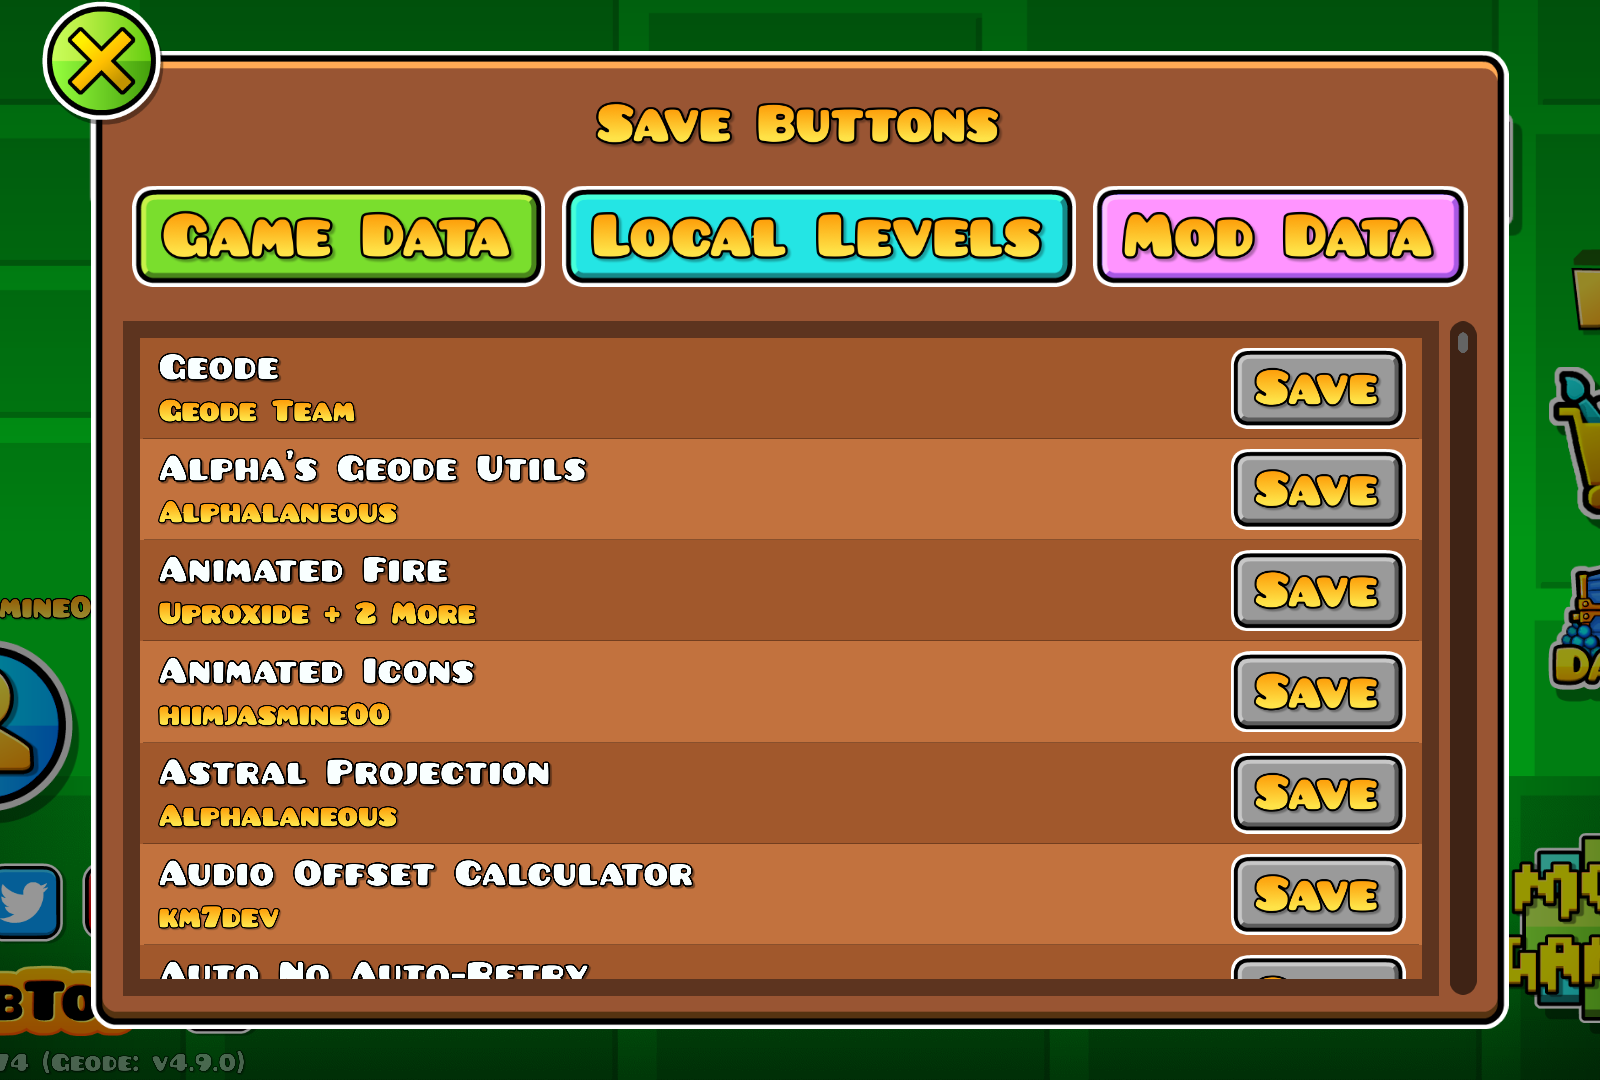
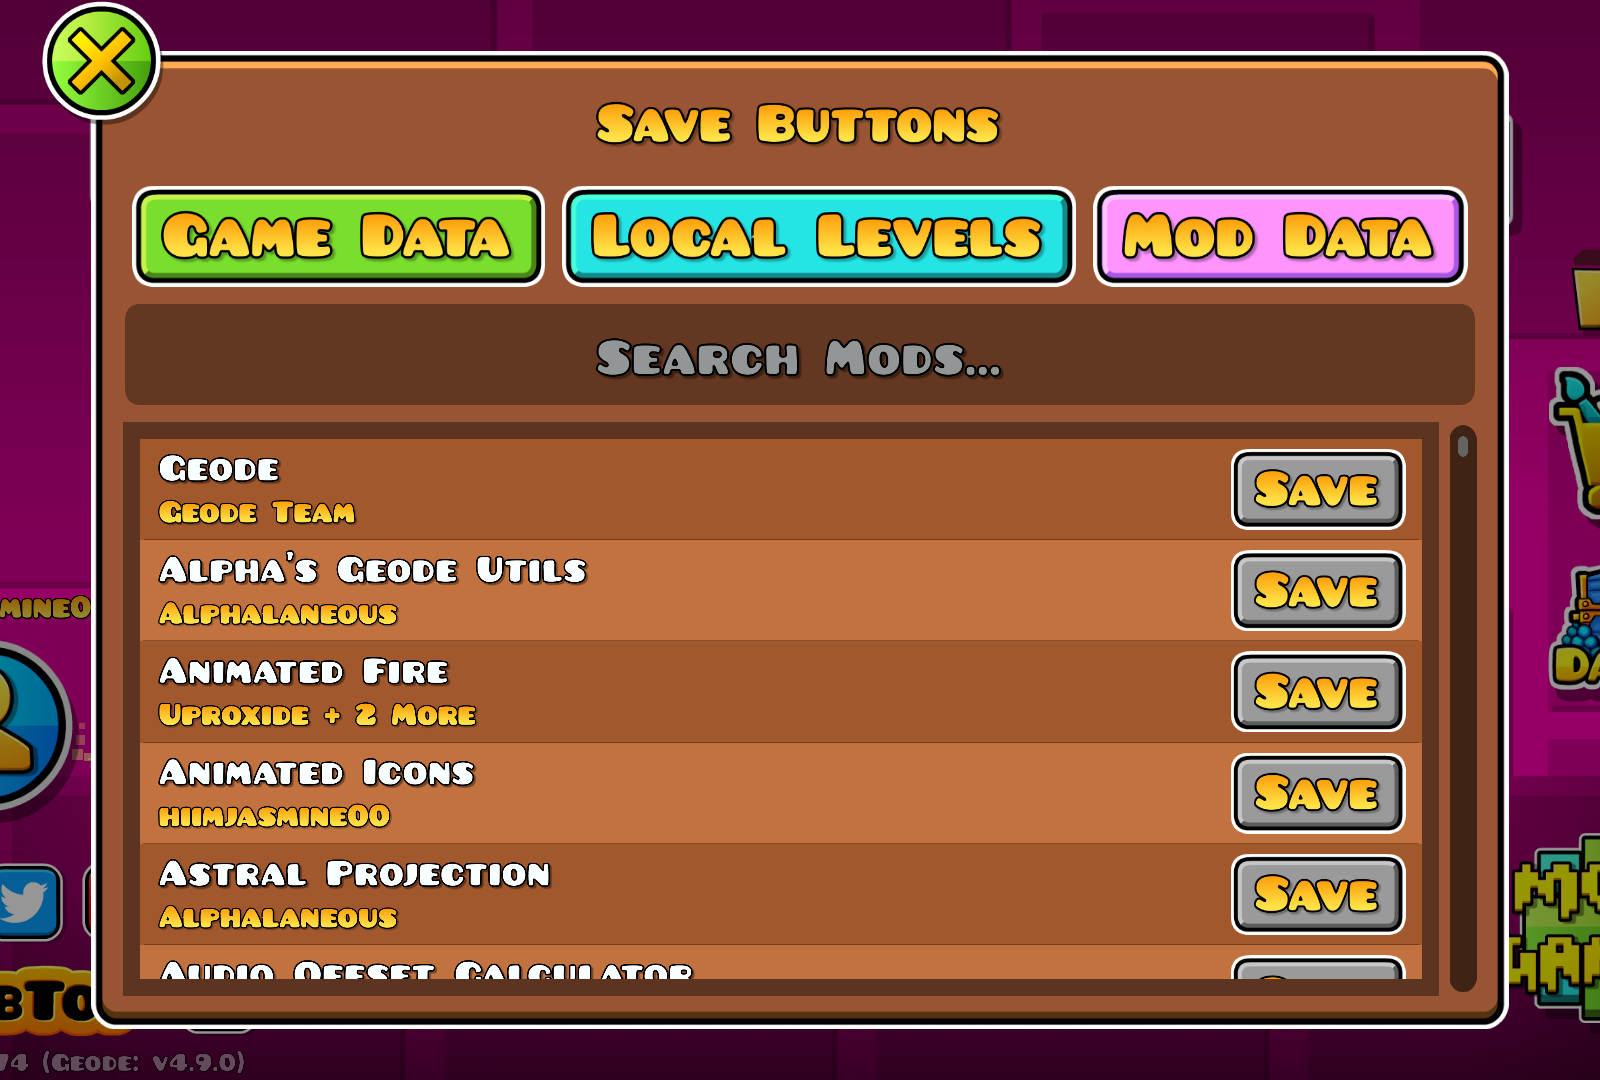
Add searching

diff --git a/src/classes/SBModCell.cpp b/src/classes/SBModCell.cpp
@@ -2,15 +2,71 @@
 #include "../SaveButtons.hpp"
 #include <Geode/binding/ButtonSprite.hpp>
 #include <Geode/binding/FLAlertLayer.hpp>
-#include <Geode/loader/Mod.hpp>
-#include <Geode/loader/ModSettingsManager.hpp>
+#include <Geode/loader/Loader.hpp>
 #include <Geode/ui/Notification.hpp>
+#include <Geode/utils/string.hpp>
 
 using namespace geode::prelude;
 
-SBModCell* SBModCell::create(Mod* mod, int index) {
+CCSize getLabelSize(std::u16string_view text, const char* font, int kerning = 0) {
+    if (text.empty()) return { 0.0f, 0.0f };
+
+    auto fontConfig = FNTConfigLoadFile(font);
+    auto lines = 1;
+    auto charSet = fontConfig->getCharacterSet();
+    auto fontDefDict = fontConfig->m_pFontDefDictionary;
+    auto kerningDict = fontConfig->m_pKerningDictionary;
+    auto maxWidth = 0;
+    auto previous = -1u;
+    auto nextX = 0;
+
+    for (size_t i = 0; i < text.size(); i++) {
+        uint32_t c = text[i];
+        if (c == '\n') {
+            nextX = 0;
+            lines++;
+            continue;
+        }
+
+        if (!charSet->contains(c)) {
+            c = std::toupper(c);
+            if (!charSet->contains(c)) continue;
+        }
+
+        tCCFontDefHashElement* fontElement = nullptr;
+        HASH_FIND_INT(fontDefDict, &c, fontElement);
+        if (!fontElement) continue;
+
+        auto& fontDef = fontElement->fontDef;
+        nextX += fontDef.xAdvance + kerning;
+
+        if (kerningDict) {
+            auto key = (previous << 16) | c;
+            tCCKerningHashElement* kerningElement = nullptr;
+            HASH_FIND_INT(kerningDict, &key, kerningElement);
+            if (kerningElement) nextX += kerningElement->amount;
+        }
+
+        if (nextX > maxWidth) maxWidth = nextX;
+        previous = c;
+        if (i + 1 == text.size()) {
+            maxWidth += std::max(0, (int)fontDef.rect.size.width - fontDef.xAdvance);
+        }
+    }
+
+    return CCSize { (float)maxWidth, (float)(fontConfig->m_nCommonHeight * lines) } / CCDirector::get()->getContentScaleFactor();
+}
+
+CCSize getLabelSize(std::string_view text, const char* font, int kerning = 0) {
+    if (auto str = utils::string::utf8ToUtf16(text)) {
+        return getLabelSize(str.unwrap(), font, kerning);
+    }
+    return { 0.0f, 0.0f };
+}
+
+SBModCell* SBModCell::create(const ModMetadata& metadata, int index) {
     auto ret = new SBModCell();
-    if (ret->init(mod, index)) {
+    if (ret->init(metadata, index)) {
         ret->autorelease();
         return ret;
     }
@@ -18,10 +74,10 @@ SBModCell* SBModCell::create(Mod* mod, int index) {
     return nullptr;
 }
 
-bool SBModCell::init(Mod* mod, int index) {
+bool SBModCell::init(const ModMetadata& metadata, int index) {
     if (!CCLayer::init()) return false;
 
-    setID(mod->getID());
+    setID(metadata.getID());
     setContentSize({ 380.0f, 30.0f });
 
     auto background = CCLayerColor::create(index % 2 == 0 ? ccColor4B { 161, 88, 44, 255 } : ccColor4B { 194, 114, 62, 255 }, 380.0f, 30.0f);
@@ -31,10 +87,13 @@ bool SBModCell::init(Mod* mod, int index) {
     background->setID("background");
     addChild(background);
 
-    auto nameLabel = CCLabelBMFont::create(mod->getName().c_str(), "bigFont.fnt");
+    auto nameLabel = CCLabelBMFont::create(metadata.getName().c_str(), "bigFont.fnt");
     nameLabel->setPosition({ 5.0f, 22.0f });
     nameLabel->setAnchorPoint({ 0.0f, 0.5f });
     nameLabel->setScale(0.37f);
+    if (metadata.checkTargetVersions().isErr()) {
+        nameLabel->setColor({ 125, 125, 125 });
+    }
     nameLabel->setID("name-label");
     addChild(nameLabel);
 
@@ -45,17 +104,17 @@ bool SBModCell::init(Mod* mod, int index) {
     buttonMenu->setID("button-menu");
     addChild(buttonMenu);
 
-    auto developersLabel = CCLabelBMFont::create(ModMetadata::formatDeveloperDisplayString(mod->getDevelopers()).c_str(), "goldFont.fnt");
+    auto developersLabel = CCLabelBMFont::create(ModMetadata::formatDeveloperDisplayString(metadata.getDevelopers()).c_str(), "goldFont.fnt");
     developersLabel->setScale(0.4f);
-    auto developersButton = CCMenuItemExt::createSpriteExtra(developersLabel, [mod](auto) {
-        auto developersTitle = CCLabelBMFont::create(fmt::format("{} Developers", mod->getName()).c_str(), "goldFont.fnt");
+    auto developersButton = CCMenuItemExt::createSpriteExtra(developersLabel, [&metadata](auto) {
+        auto title = fmt::format("{} Developers", metadata.getName());
         FLAlertLayer::create(
             nullptr,
-            developersTitle->getString(),
-            string::join(mod->getDevelopers(), "\n"),
+            title.c_str(),
+            string::join(metadata.getDevelopers(), "\n"),
             "OK",
             nullptr,
-            developersTitle->getContentWidth() * 0.9f + 40.0f
+            getLabelSize(title, "goldFont.fnt").width * 0.9f + 40.0f
         )->show();
     });
     developersButton->setPosition(developersLabel->getScaledContentSize() / 2.0f + CCPoint { 5.0f, 4.0f });
@@ -64,12 +123,12 @@ bool SBModCell::init(Mod* mod, int index) {
 
     auto saveSprite = ButtonSprite::create("Save", "goldFont.fnt", "GJ_button_04.png", 0.8f);
     saveSprite->setScale(0.8f);
-    auto saveButton = CCMenuItemExt::createSpriteExtra(saveSprite, [mod](auto) {
+    auto saveButton = CCMenuItemExt::createSpriteExtra(saveSprite, [&metadata](auto) {
         auto start = std::chrono::steady_clock::now();
-        auto [settings, saved] = SaveButtons::save(mod);
+        auto [settings, saved] = SaveButtons::save(Loader::get()->getInstalledMod(metadata.getID()));
         auto end = std::chrono::steady_clock::now();
 
-        auto name = mod->getName();
+        auto name = metadata.getName();
         auto format = SaveButtons::format(start, end);
         NotificationIcon icon;
         std::string message;

diff --git a/src/classes/SBSavePopup.cpp b/src/classes/SBSavePopup.cpp
@@ -4,13 +4,16 @@
 #include <Geode/binding/ButtonSprite.hpp>
 #include <Geode/binding/GameManager.hpp>
 #include <Geode/binding/LocalLevelManager.hpp>
+#define FTS_FUZZY_MATCH_IMPLEMENTATION
+#include <Geode/external/fts/fts_fuzzy_match.h>
 #include <Geode/loader/Mod.hpp>
-#include <Geode/loader/ModSettingsManager.hpp>
 #include <Geode/ui/Notification.hpp>
 #include <Geode/ui/Scrollbar.hpp>
-#include <Geode/ui/ScrollLayer.hpp>
+#include <Geode/ui/TextInput.hpp>
 
 using namespace geode::prelude;
+
+static std::string saveQuery;
 
 SBSavePopup* SBSavePopup::create() {
     auto ret = new SBSavePopup();
@@ -32,11 +35,6 @@ bool SBSavePopup::setup() {
     m_closeBtn->setID("close-button");
 
     m_mods = Loader::get()->getAllMods();
-    std::ranges::sort(m_mods, [](Mod* a, Mod* b) {
-        if (a->isInternal()) return true;
-        if (b->isInternal()) return false;
-        return string::caseInsensitiveCompare(a->getName(), b->getName()) == std::strong_ordering::less;
-    });
 
     auto saveMenu = CCMenu::create();
     saveMenu->setPosition({ 210.0f, 235.0f });
@@ -90,35 +88,99 @@ bool SBSavePopup::setup() {
     saveMenu->updateLayout();
     m_mainLayer->addChild(saveMenu);
 
-    auto scrollBackground = CCLayerColor::create({ 0, 0, 0, 100 }, 390.0f, 200.0f);
-    scrollBackground->setPosition({ 204.5f, 110.0f });
+    auto textInput = TextInput::create(400.0f, "Search Mods...");
+    textInput->setPosition({ 210.0f, 200.0f });
+    textInput->setString(saveQuery);
+    textInput->setCallback([this](const std::string& str) {
+        saveQuery = str;
+        updateMods(str);
+    });
+    textInput->setID("search-input");
+    m_mainLayer->addChild(textInput);
+
+    auto scrollBackground = CCLayerColor::create({ 0, 0, 0, 100 }, 390.0f, 170.0f);
+    scrollBackground->setPosition({ 204.5f, 95.0f });
     scrollBackground->ignoreAnchorPointForPosition(false);
     scrollBackground->setID("scroll-background");
     m_mainLayer->addChild(scrollBackground);
 
-    auto scrollLayer = ScrollLayer::create({ 380.0f, 190.0f });
-    scrollLayer->setPosition({ 204.5f, 110.0f });
-    scrollLayer->ignoreAnchorPointForPosition(false);
-    scrollLayer->m_contentLayer->setLayout(ColumnLayout::create()
+    m_scrollLayer = ScrollLayer::create({ 380.0f, 160.0f });
+    m_scrollLayer->setPosition({ 204.5f, 95.0f });
+    m_scrollLayer->ignoreAnchorPointForPosition(false);
+    m_scrollLayer->m_contentLayer->setLayout(ColumnLayout::create()
         ->setAxisReverse(true)
         ->setAxisAlignment(AxisAlignment::End)
         ->setAutoGrowAxis(190.0f)
         ->setGap(0.0f));
-    scrollLayer->setID("scroll-layer");
+    m_scrollLayer->setID("scroll-layer");
+    m_mainLayer->addChild(m_scrollLayer);
 
-    for (size_t i = 0; i < m_mods.size(); i++) {
-        scrollLayer->m_contentLayer->addChild(SBModCell::create(m_mods[i], i));
-    }
-
-    scrollLayer->m_contentLayer->updateLayout();
-    scrollLayer->scrollToTop();
-    m_mainLayer->addChild(scrollLayer);
-
-    auto scrollbar = Scrollbar::create(scrollLayer);
-    scrollbar->setPosition({ 406.5f, 110.0f });
+    auto scrollbar = Scrollbar::create(m_scrollLayer);
+    scrollbar->setPosition({ 406.5f, 95.0f });
     scrollbar->setScaleY(1.05f);
     scrollbar->setID("scrollbar");
     m_mainLayer->addChild(scrollbar);
 
+    updateMods(saveQuery);
+
     return true;
+}
+
+void weightedFuzzyMatch(std::string_view str, std::string_view query, double weight, double& current) {
+    int score;
+    if (fts::fuzzy_match(query.data(), str.data(), score)) {
+        auto finalScore = score * weight;
+        if (finalScore > current) current = finalScore;
+    }
+}
+
+void SBSavePopup::updateMods(std::string_view query) {
+    m_scrollLayer->m_contentLayer->removeAllChildren();
+
+    std::vector<std::pair<Mod*, double>> filteredMods;
+
+    for (auto mod : m_mods) {
+        if (query.empty()) {
+            filteredMods.emplace_back(mod, mod->isInternal() ? 5.0 : 0.0);
+            continue;
+        }
+
+        auto& metadata = mod->getMetadataRef();
+        auto weighted = 0.0;
+        weightedFuzzyMatch(metadata.getName(), query, 1.0, weighted);
+        weightedFuzzyMatch(metadata.getID(), query, 0.5, weighted);
+        for (auto& dev : metadata.getDevelopers()) {
+            weightedFuzzyMatch(dev, query, 0.25, weighted);
+        }
+        if (auto details = metadata.getDetails()) {
+            weightedFuzzyMatch(details.value(), query, 0.005, weighted);
+        }
+        if (auto desc = metadata.getDescription()) {
+            weightedFuzzyMatch(desc.value(), query, 0.02, weighted);
+        }
+        if (weighted >= 2.0) {
+            if (mod->isInternal()) weighted += 5.0;
+            filteredMods.emplace_back(mod, weighted);
+        }
+    }
+
+    std::ranges::sort(filteredMods, [](const std::pair<Mod*, double>& a, const std::pair<Mod*, double>& b) {
+        if (a.second != b.second) return a.second > b.second;
+
+        auto& aMeta = a.first->getMetadataRef();
+        auto& bMeta = b.first->getMetadataRef();
+
+        auto aOutdated = aMeta.checkTargetVersions().isErr();
+        auto bOutdated = bMeta.checkTargetVersions().isErr();
+        if (aOutdated != bOutdated) return aOutdated < bOutdated;
+
+        return string::caseInsensitiveCompare(aMeta.getName(), bMeta.getName()) == std::strong_ordering::less;
+    });
+
+    for (size_t i = 0; i < filteredMods.size(); i++) {
+        m_scrollLayer->m_contentLayer->addChild(SBModCell::create(filteredMods[i].first->getMetadataRef(), i));
+    }
+
+    m_scrollLayer->m_contentLayer->updateLayout();
+    m_scrollLayer->scrollToTop();
 }

diff --git a/src/classes/SBModCell.hpp b/src/classes/SBModCell.hpp
@@ -1,10 +1,11 @@
 #include <cocos2d.h>
+#include <Geode/loader/ModMetadata.hpp>
 
 class SBModCell : public cocos2d::CCLayer {
 protected:
-    bool init(geode::Mod* mod, int index);
+    bool init(const geode::ModMetadata& metadata, int index);
 public:
-    static SBModCell* create(geode::Mod* mod, int index);
+    static SBModCell* create(const geode::ModMetadata& metadata, int index);
 
     void draw() override;
 };

diff --git a/src/SaveButtons.cpp b/src/SaveButtons.cpp
@@ -70,5 +70,5 @@ std::pair<bool, bool> SaveButtons::save(Mod* mod) {
     auto savedRes = file::writeStringSafe(saveDir / "saved.json", mod->getSavedSettingsData().dump());
     if (savedRes.isErr()) log::error("Failed to save saved data for {}: {}", name, savedRes.unwrapErr());
 
-    return std::make_pair(settingsRes.isOk(), savedRes.isOk());
+    return { settingsRes.isOk(), savedRes.isOk() };
 }

diff --git a/src/classes/SBSavePopup.hpp b/src/classes/SBSavePopup.hpp
@@ -1,10 +1,13 @@
 #include <Geode/ui/Popup.hpp>
+#include <Geode/ui/ScrollLayer.hpp>
 
 class SBSavePopup : public geode::Popup<> {
 protected:
     std::vector<geode::Mod*> m_mods;
+    geode::ScrollLayer* m_scrollLayer;
 
     bool setup() override;
+    void updateMods(std::string_view query);
 public:
     static SBSavePopup* create();
 };

diff --git a/src/SaveButtons.hpp b/src/SaveButtons.hpp
@@ -1,4 +1,5 @@
-#include <cocos2d.h>
+#include <chrono>
+#include <Geode/loader/Types.hpp>
 
 class SaveButtons {
 public:

diff --git a/changelog.md b/changelog.md
@@ -1,3 +1,6 @@
 # Save Buttons Changelog
+## v1.0.1 (2025-11-16)
+- Added a search textbox to the save popup
+
 ## v1.0.0 (2025-11-15)
 - Initial release
